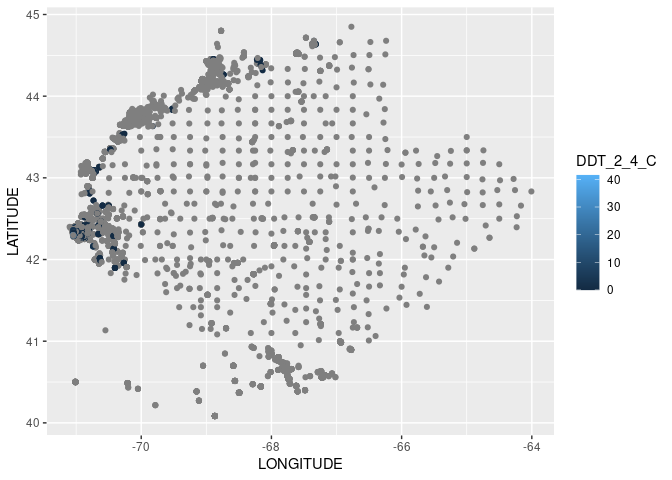
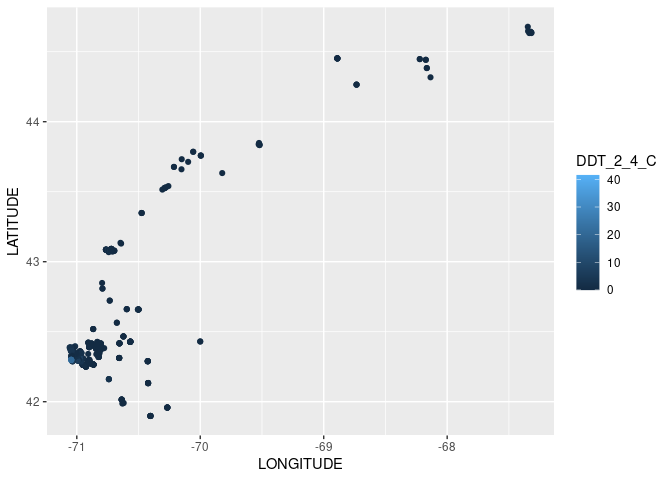
Add map plots (ggplot) GOM states, bathymetry, PCB concentration as geom

diff --git a/analysis/PCBs.md b/analysis/PCBs.md
@@ -86,15 +86,20 @@ glimpse(PCBs)
   #drop_na(c(PCB_52_NGG:PCB209_NGG))
   #mutate(PCBs = sum(c(PCB_52_NGGPCB209_NGG)), na.rm = T)
   #unite("PCBs", PCB_52_NGG:PCB209_NGG, remove = TRUE)
+
+##This is what I (Autumn) tried to do, but it still wouldn't recognize the columns. 
+#PCBs %>%
+  #drop_na(c(PCB_52_NGG:PCB209_NGG))
+  #mutate(PCBs = PCB_52_NGG + PCB101_NGG + PCB118_NGG + PCB128_NGG + PCB138_NGG + PCB153_NGG + PCB180_NGG + PCB206_NGG + PCB209_NGG), na.rm = T)
+  #unite("PCBs", PCB_52_NGG:PCB209_NGG, remove = TRUE)
 ```
 
 ``` r
 PCBs %>%
+  drop_na(DDT_2_4_C) %>%
   ggplot(aes(x = LONGITUDE, y = LATITUDE, color = DDT_2_4_C))+
   geom_point()
 ```
-
-    ## Warning: Removed 319 rows containing missing values (`geom_point()`).
 
 ![](PCBs_files/figure-gfm/unnamed-chunk-1-1.png)<!-- -->
 
@@ -200,3 +205,70 @@ Summary_Organics_1 %>%
 ```
 
 ![](PCBs_files/figure-gfm/unnamed-chunk-5-1.png)<!-- -->
+
+## Statistical tests
+
+### Difference between general locations
+
+Does total PCB concentration differ significantly between general
+locations?
+
+## Map Plots
+
+``` r
+GOM_states <- st_read("/cloud/project/extra/GOM_DD.shp")
+```
+
+    ## Reading layer `GOM_DD' from data source `/cloud/project/extra/GOM_DD.shp' using driver `ESRI Shapefile'
+    ## Simple feature collection with 8 features and 6 fields
+    ## Geometry type: MULTIPOLYGON
+    ## Dimension:     XY
+    ## Bounding box:  xmin: -73.72972 ymin: 40.98249 xmax: -59.69256 ymax: 48.06532
+    ## Geodetic CRS:  NAD83
+
+``` r
+Bathy <- st_read("/cloud/project/extra/BATHYMGM_ARC.shp")
+```
+
+    ## Reading layer `BATHYMGM_ARC' from data source 
+    ##   `/cloud/project/extra/BATHYMGM_ARC.shp' using driver `ESRI Shapefile'
+    ## Simple feature collection with 5383 features and 2 fields
+    ## Geometry type: LINESTRING
+    ## Dimension:     XY
+    ## Bounding box:  xmin: 174878.8 ymin: 577731.9 xmax: 923912.7 ymax: 1311467
+    ## Projected CRS: NAD83 / Massachusetts Mainland
+
+``` r
+unique(Bathy$CONTOUR)
+```
+
+    ##  [1]    -5   -40   -15   -20   -10     0   -50   -30   -70   -60  -100   -90
+    ## [13]   -80  -120  -220  -200  -160  -180  -140  -240  -300  -280  -260  -500
+    ## [25]  -400 -2000 -1000 -3000 -4000
+
+``` r
+Bathy <- Bathy%>%
+  filter(CONTOUR %in% c("-100", "-200","-400","-1000","-2000","-3000","-4000"))
+ggplot(Bathy) +
+  geom_sf(aes())
+```
+
+![](PCBs_files/figure-gfm/unnamed-chunk-9-1.png)<!-- -->
+
+``` r
+Org_no_na <- Organics %>%
+  drop_na(PCB_T_UGG)
+```
+
+``` r
+ggplot(GOM_states)+
+  geom_sf(aes())+
+  geom_point(data=Org_no_na, (aes(x = LONGITUDE, y = LATITUDE, size = PCB_T_UGG, alpha = 0.5)))+
+  xlim(-72,-65)+
+  ylim(40,45)+
+  theme_bw()
+```
+
+    ## Warning: Removed 56 rows containing missing values (`geom_point()`).
+
+![](PCBs_files/figure-gfm/unnamed-chunk-11-1.png)<!-- -->
